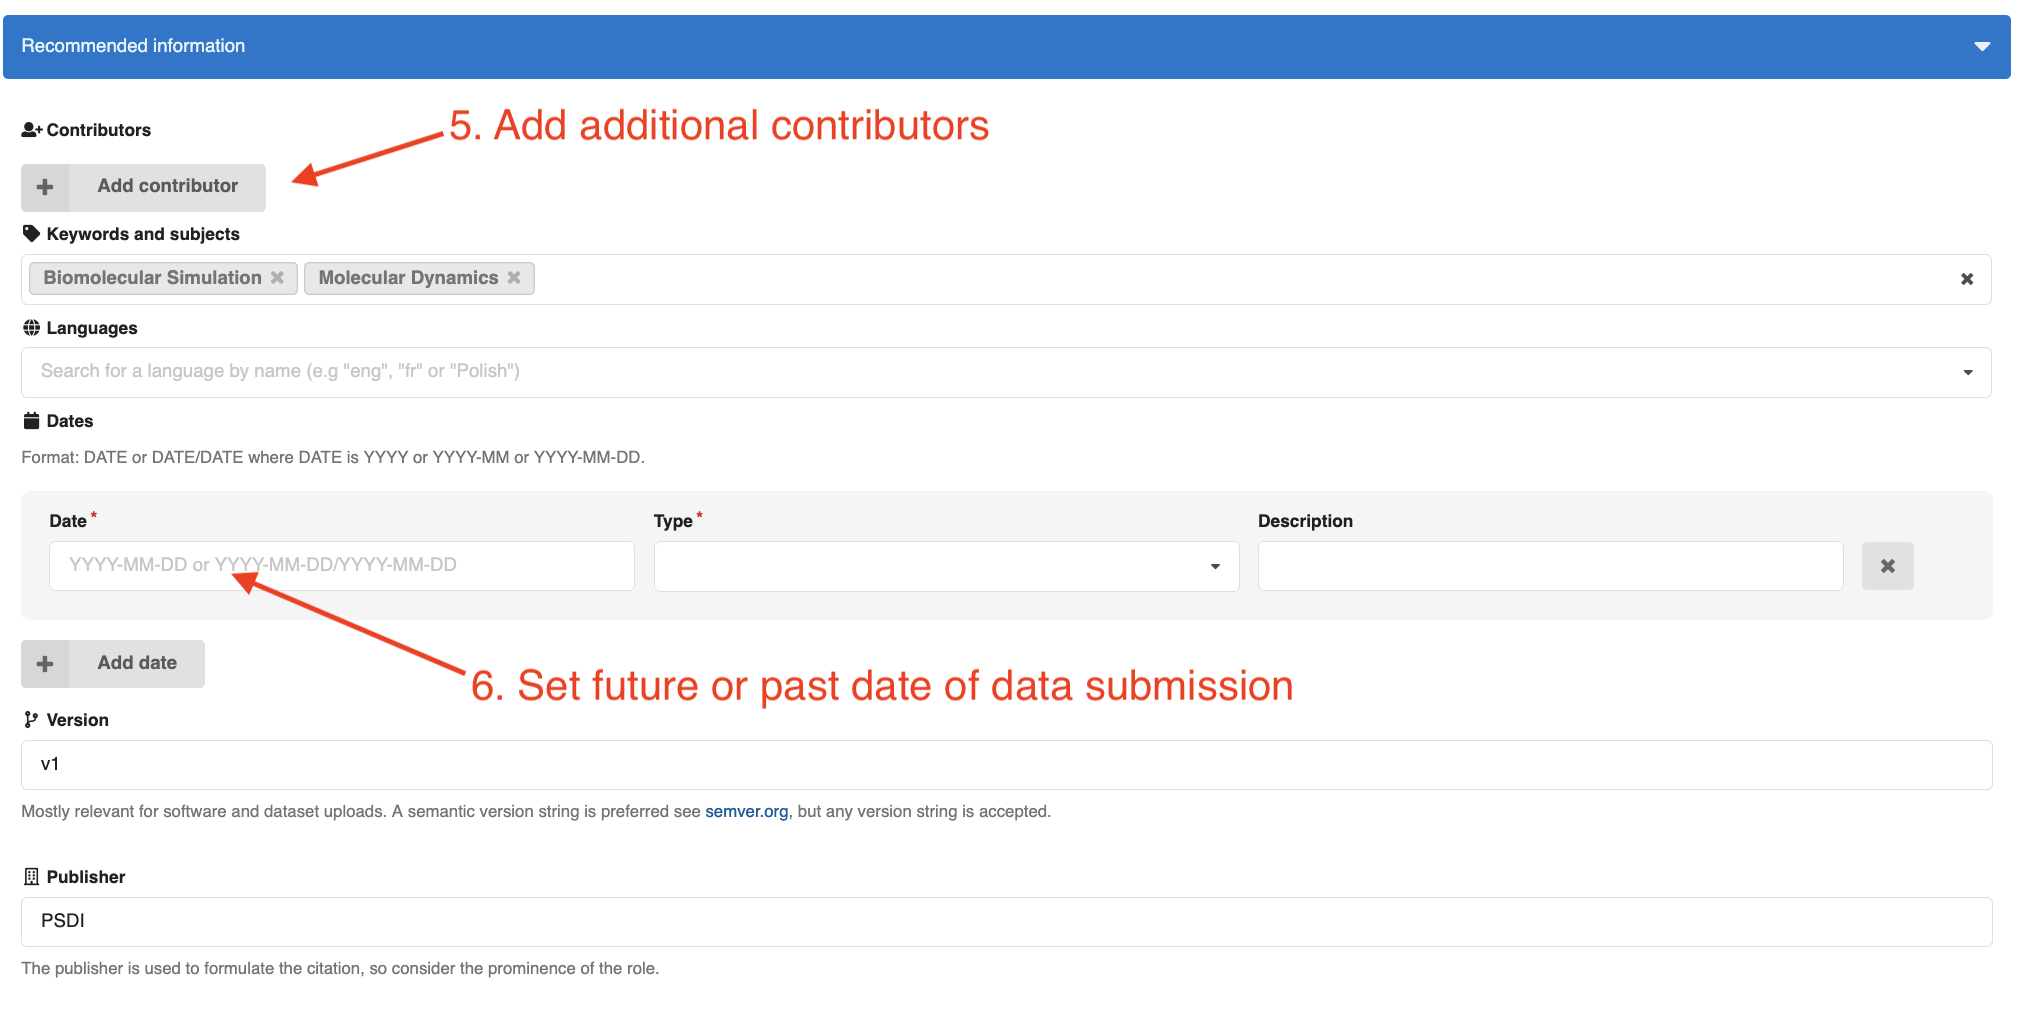
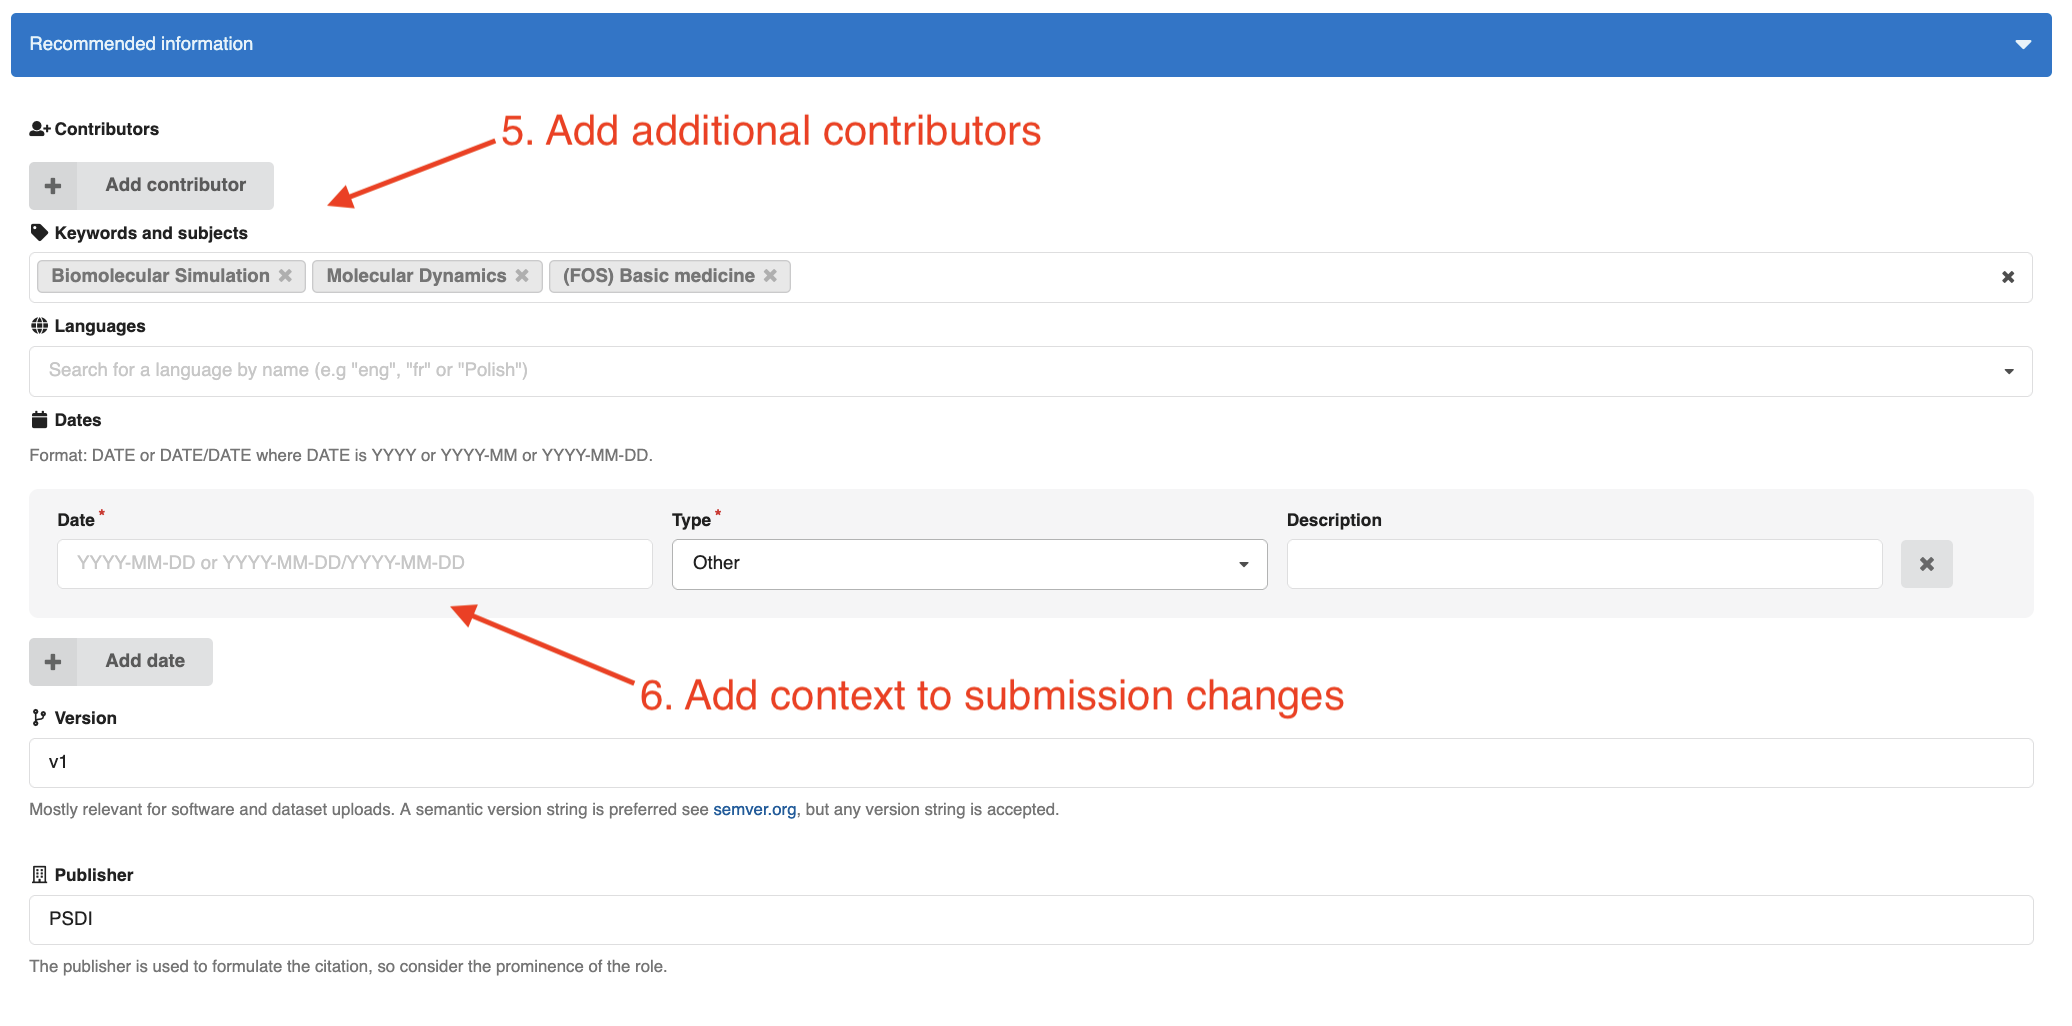
complete instructions for BioSimDB access and submission

diff --git a/docs/source/biosimdb/complete_biosimdb_instructions.rst b/docs/source/biosimdb/complete_biosimdb_instructions.rst
@@ -1,14 +1,15 @@
-Completing BioSimDB Submission
-==============================
+3. Complete BioSimDB Submission
+===============================
 
 Once you have submitted a record to BioSimDB via the "BioSim Data Extraction & Submission Form", your
-draft submission will be avaiable in data-collections in the "My dashboard" section under uploads, in a URL like this: https://data-collections.psdi.ac.uk/uploads/XXXXX-XXXXX
+draft submission will be available in `data-collections <https://data-collections.psdi.ac.uk/>`_ in the "My dashboard" section under uploads, in a URL like this: https://data-collections.psdi.ac.uk/uploads/XXXXX-XXXXX, where ``XXXXX-XXXXX`` is your draft record ID.
 
 .. image:: ../_static/biosimdb/0_uploads.png
    :width: 600
    :align: center
 
 Make sure you are `logged in <https://data-collections.psdi.ac.uk/login/?next=/>`_  to see your draft uploads.
+The next step is to submit your data for review to be published to BioSimDB.
 
 
 Filling the BioSimDB Submission Form
@@ -20,20 +21,43 @@ You should see the simulation files and metadata uploaded from the "BioSim Data 
    :width: 600
    :align: center
 
-Next, the
+.. note::
+    Please ensure the ``simulation_metadata.json`` file is included in your record, your data submission will not be accepted without this!
 
-.. image:: ../_static/biosimdb/2_basic_info.png
-   :width: 600
-   :align: center
+The rest of the form allows users to provide non-technical information about their data submission.
 
-.. image:: ../_static/biosimdb/3_rec_info.png
-   :width: 600
-   :align: center
+    1. Provide a title describing your simulation contents.
+    2. Add creators of the simulation data.
+    3. Include a scientific-style abstract for your submission. Here is where you can add the "why", the scientific insights and further context of your data.
+    4. If applicable, you can edit the default license set for your data to be more permissive/restrictive, as required for your needs. Please note, a license cannot be made more restrictive once the data is published.
 
-.. image:: ../_static/biosimdb/4_funding.png
-   :width: 600
-   :align: center
+    .. image:: ../_static/biosimdb/2_basic_info.png
+        :width: 600
+        :align: center
+
+    5. Include contributors who haven't directly produced the data as additional contributors.
+    6. This is only required for future changes to your data (e.g. updated metadata, files, status), where you can include a date, type and short description of a change made to the record.
+
+    .. image:: ../_static/biosimdb/3_rec_info.png
+        :width: 600
+        :align: center
+
+    7. Include information of funding that enabled data to be produced.
+    8. If have published your data elsewhere, add identifiers to these here.
+    9. Include identifiers of any work that has used the simulation data in your record.
+
+    .. image:: ../_static/biosimdb/4_funding.png
+        :width: 600
+        :align: center
+
+Once you are happy with the information you have provided, please submit your data record for review.
 
 .. image:: ../_static/biosimdb/5_submit.png
-   :width: 400
-   :align: center
+    :width: 400
+    :align: center
+
+You will see a pop-up box to confirm your submission and include an optional message to BioSimDB curators.
+
+.. image:: ../_static/biosimdb/6_review.png
+    :width: 400
+    :align: center

diff --git a/docs/source/biosimdb/join_instructions.rst b/docs/source/biosimdb/join_instructions.rst
@@ -1,12 +1,12 @@
 .. include:: ../.special.rst
 
-Join the BioSimDB Community
-===========================
+1. Join the BioSimDB Community
+==============================
 
 To upload data to `BioSimDB <https://data-collections.psdi.ac.uk/communities/biosimdb/>`_, users must first join the BioSimDB community hosted by `PSDI <https://www.psdi.ac.uk/>`_ , by following the steps below.
 
-1. PSDI Data Collection Login
------------------------------
+a). PSDI Data Collection Login
+------------------------------
 
 Head to the `PSDI data collections website <https://data-collections.psdi.ac.uk/>`_ and click on the login button:
 
@@ -14,13 +14,13 @@ Head to the `PSDI data collections website <https://data-collections.psdi.ac.uk/
    :width: 800
    :align: center
 
-2. Account Creation
--------------------
+b). Account Creation
+--------------------
 
 There are two routes for creating a PSDI account, we strongly advise to use route 2a. to avoid delays in creating your account. Where this is not possible, please follow option 2b.
 
-2a. :sso:`SSO via Institution`
-++++++++++++++++++++++++++++++
+b) (i). :sso:`SSO via Institution`
+++++++++++++++++++++++++++++++++++
 
 If you belong to a UK research institution, click on the "UK Institution Sign in" button to use SSO via your institution.
 This is the quickest and preferred method for accessing PSDI Community Data Collections.
@@ -37,8 +37,8 @@ Find your UK research institution from the dropdown list, you will be redirected
 
 If step 2a. has been successful for you, congratulations! Please skip step 2b. and move onto step 3.
 
-2b. :manual:`Manual Registration`
-+++++++++++++++++++++++++++++++++
+b) (ii). :manual:`Manual Registration`
+++++++++++++++++++++++++++++++++++++++
 
 .. note::
     Only register manually for an account if you do not find your institution listed. If your institution is listed and you have trouble logging in, please contact PSDI support directly instead of registering manually.
@@ -57,8 +57,11 @@ Fill in the short webform with your details and click register.
 
 If successful, you will receive an email from PSDI to the email address you have manually registered with, requesting confirmation of your account. Please note, this may take a few hours to be processed. Is there are any further delays, please contact PSDI support directly.
 
-3. BioSimDB Community Membership
---------------------------------
+c). BioSimDB Community Membership
+---------------------------------
+
+.. note::
+    The process for joining the BioSimDB community may change and become more streamlined in the future. Please follow the steps below at present.
 
 Once you have successfully logged into PSDI community data collections, you can request membership specifically to the `BioSimDB community <https://data-collections.psdi.ac.uk/communities/biosimdb/>`_.
 

diff --git a/docs/source/biosimdb/record_review.rst b/docs/source/biosimdb/record_review.rst
@@ -1,0 +1,39 @@
+4. Record Review in BioSimDB
+============================
+
+Once you have submitted your simulation data record, it will be reviewed by a BioSimDB community curator.
+You can find and view your submission status, when you're logged onto the  `PSDI data collections website <https://data-collections.psdi.ac.uk/>`_ in "My dashboard > Uploads > My uploads > View":
+
+.. image:: ../_static/biosimdb/7_submission.png
+    :width: 800
+    :align: center
+
+Review Considerations
+---------------------
+
+Each field in the submission form will be checked for validity. In the interest of transparency, further details on specific field checks are as follows:
+
+- Simulation files - These will be checked to ensure they load via `MDAnalysis <https://www.mdanalysis.org/>`_.
+- Metadata - The simulation metadata will be regenerated and compared with the submitted metadata. Any discrepancies in auto-generated fields will be highlighted and discussed.
+- Title - Checked for relevance to the system composition and science.
+- Description - Checked for the inclusion of scientific motivations and significant results from producing the trajectories.
+- Related works - Confirmed with the submitter that all publications that use the data are included in related works.
+
+We aim to keep the review process light-touch and as permissive as possible.
+
+Review Format
+-------------
+
+The format of review will be an informal conversation between the submitter and reviewer, these conversations can be found in "My dashboard > Requests > My Requests"
+
+.. image:: ../_static/biosimdb/8_requests.png
+    :width: 800
+    :align: center
+
+When you click on a request, you will see a text box to add comments and replies in the review process, where applicable.
+
+.. image:: ../_static/biosimdb/9_convo.png
+    :width: 800
+    :align: center
+
+Once changes have been agreed, congratulations! Your submission will be published to BioSimDB and be accessible to everyone. Please share your data and include in any publications, if applicable.

diff --git a/docs/source/biosimdb/submit_instructions.rst b/docs/source/biosimdb/submit_instructions.rst
@@ -1,5 +1,5 @@
-Submit Data to BioSimDB
-=======================
+2. Submit Data to BioSimDB
+==========================
 
 The ``biosimdb-interface`` is hosted as a webform, which automatically extracts useful data that describes a molecular dynamics simulation. Whenever you share your data, include this metadata with the simulation files to make your data more findable, accessible, interoperable and reuseable (`FAIR <https://www.go-fair.org/fair-principles/>`_).
 
@@ -25,13 +25,21 @@ Steps to Extract Simulation Metadata
 3. Once you have extracted metadata, the webform fields are enabled, allowing you to manually populate any missing terms you wish to fill.
 
     - Click on each field name for further information about data field requirements.
+    - Each field is validated againset the schema when a user clicks to download or submit data. If there are any deviations from accepted terms, the errors will be displayed a the top of the webform.
 
 4. Two options are available for your extracted simulation metadata:
 
     4a. Download the simulation metadata as a json file and share alongside simulation files.
 
-    4b. Submit your simulation files and metadata in one step to BioSimDB, you will be directed to a login page and asked to authorize this application. Please continue and complete the data submission process in BioSimDB.
+    4b. Submit your simulation files and metadata in one step to BioSimDB, you will be directed to a login page and asked to authorize this application.
+
+    .. image:: ../_static/interface/authorise.png
+        :width: 400
+        :align: center
+
+
+    Please click on "View Record" to continue and complete the data submission process in BioSimDB.
 
     .. image:: ../_static/interface/record_success.png
-        :width: 800
+        :width: 400
         :align: center

diff --git a/docs/source/biosimdb_intro.rst b/docs/source/biosimdb_intro.rst
@@ -1,7 +1,7 @@
 Access to BioSimDB
 ==================
 
-We have a CCPBioSim hosted webform that allows users to easily access the ``biosimdb-interface``, which allows users to easily extract useful information from simulations, fill in missing terms and upload this metadata along with simulation files to a data repository of the users' choosing.
+We provide a CCPBioSim hosted webform that allows users to easily access the ``biosimdb-interface``. Users can easily extract descriptive information from simulations, fill in missing terms and upload this metadata along with simulation files to a data repository of the users' choosing.
 
 One such data repository is the `Biomolecular Simulations Database (BioSimDB) <https://data-collections.psdi.ac.uk/communities/biosimdb>`_, a collection of molecular dynamics simulation trajectories provided freely by the biomolecular simulation research community based in the UK and hosted by `PSDI <https://www.psdi.ac.uk>`_. The repository content is accessible to anyone. To upload your own simulation data to BioSimDB, please follow the instuctions to join.
 
@@ -13,3 +13,4 @@ One such data repository is the `Biomolecular Simulations Database (BioSimDB) <h
    biosimdb/join_instructions
    biosimdb/submit_instructions
    biosimdb/complete_biosimdb_instructions
+   biosimdb/record_review
